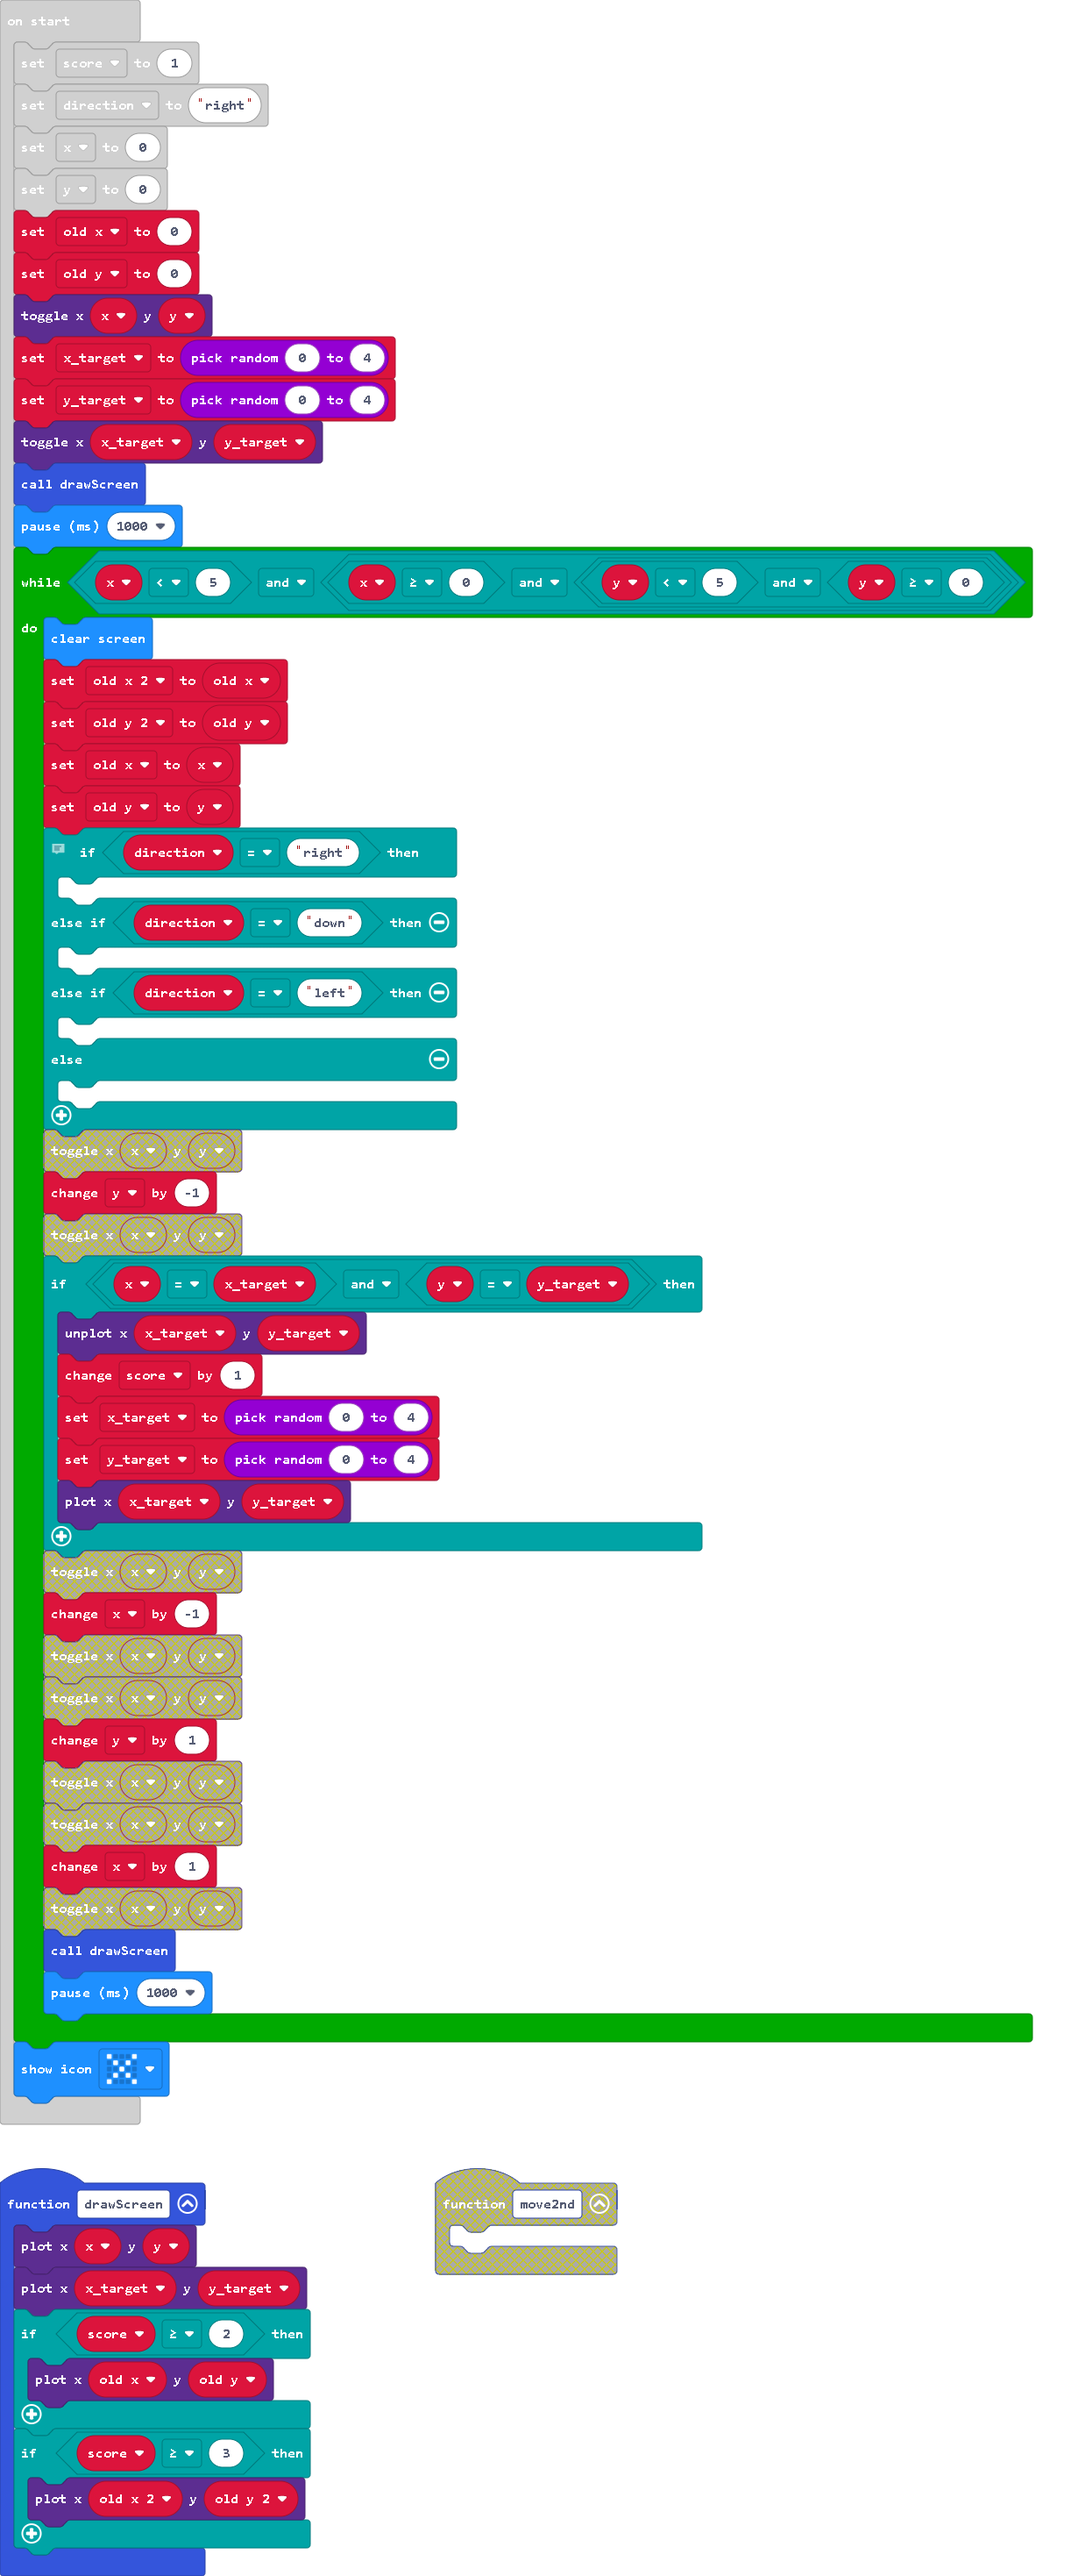
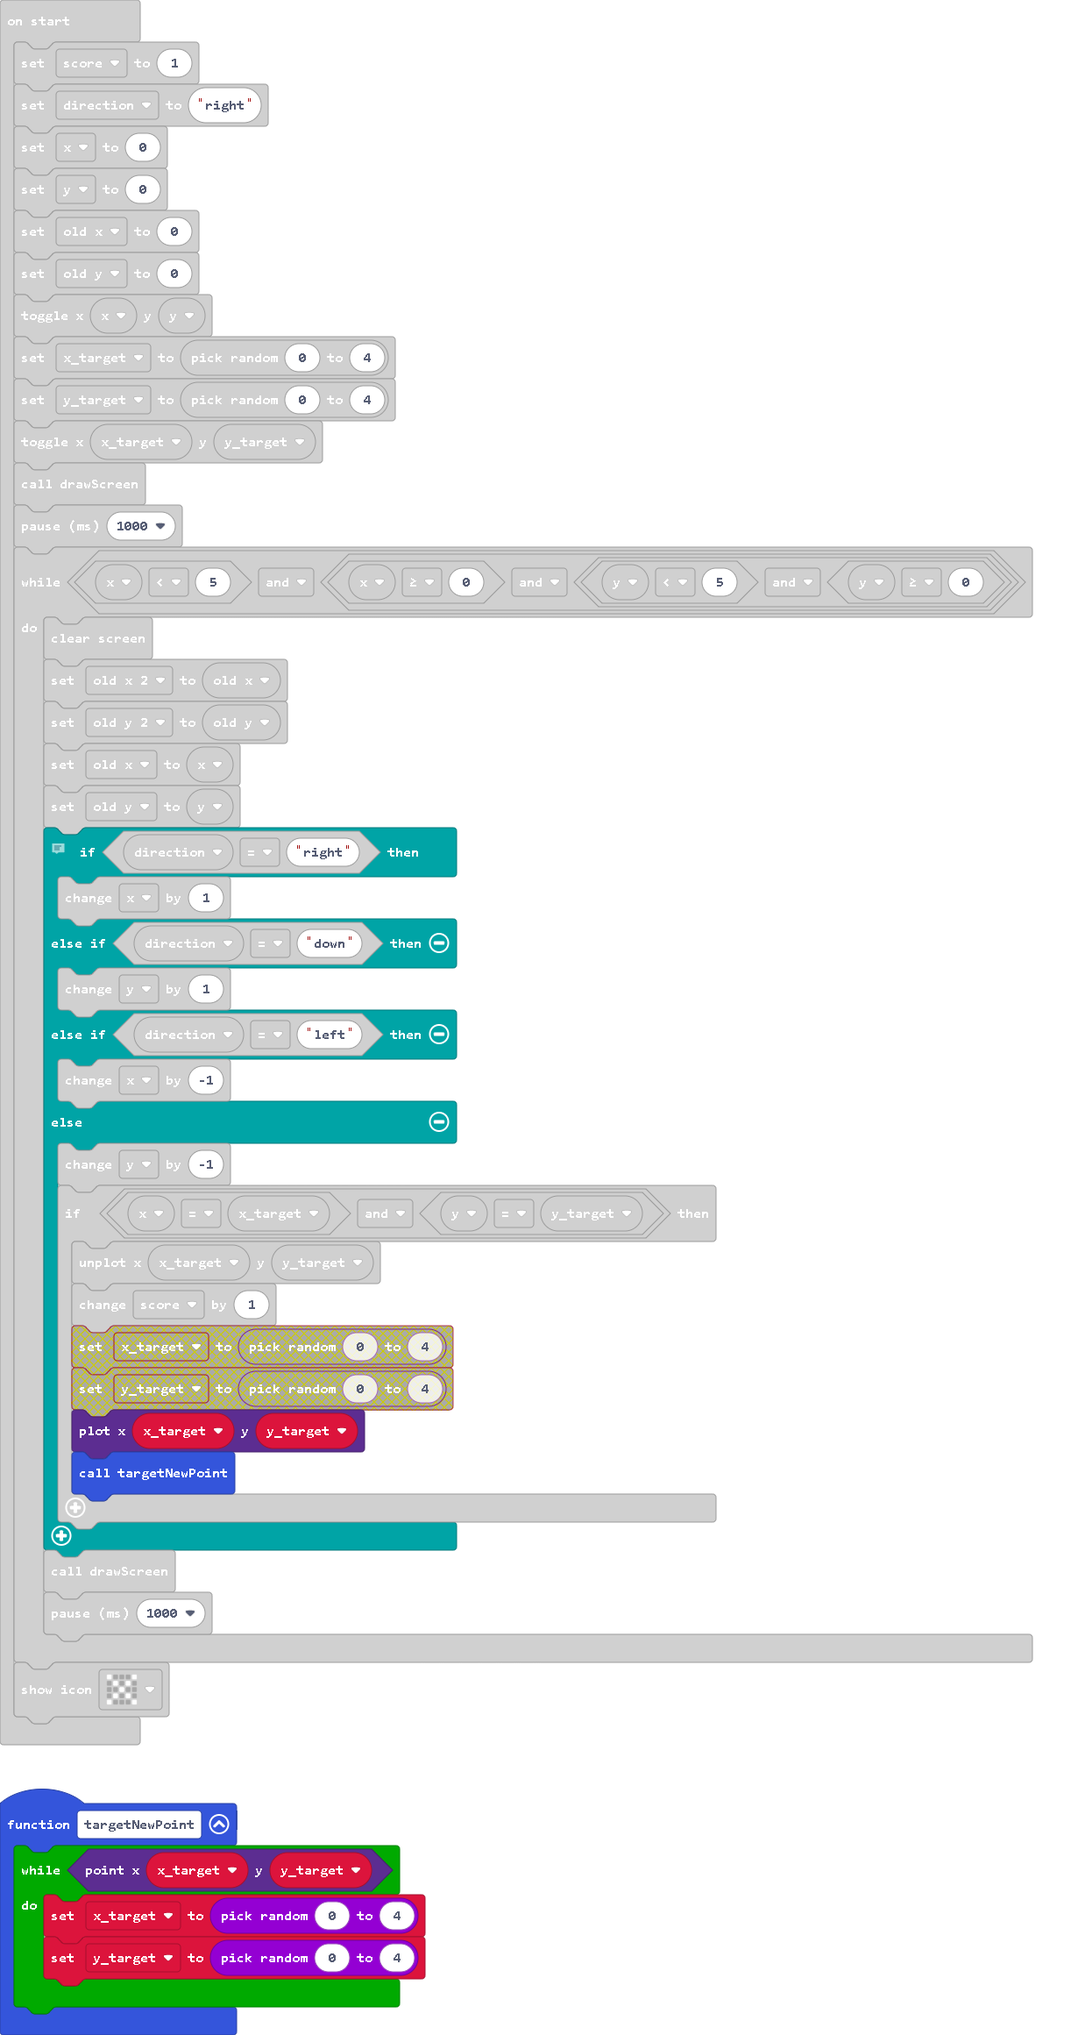
check for led on before new target

diff --git a/main.ts b/main.ts
@@ -1,3 +1,9 @@
+function targetNewPoint () {
+    while (led.point(x_target, y_target)) {
+        x_target = randint(0, 4)
+        y_target = randint(0, 4)
+    }
+}
 input.onButtonPressed(Button.A, function () {
     direction = "left"
 })
@@ -61,8 +67,7 @@ while (x < 5 && (x >= 0 && (y < 5 && y >= 0))) {
         if (x == x_target && y == y_target) {
             led.unplot(x_target, y_target)
             score += 1
-            x_target = randint(0, 4)
-            y_target = randint(0, 4)
+            targetNewPoint()
             led.plot(x_target, y_target)
         }
     }
